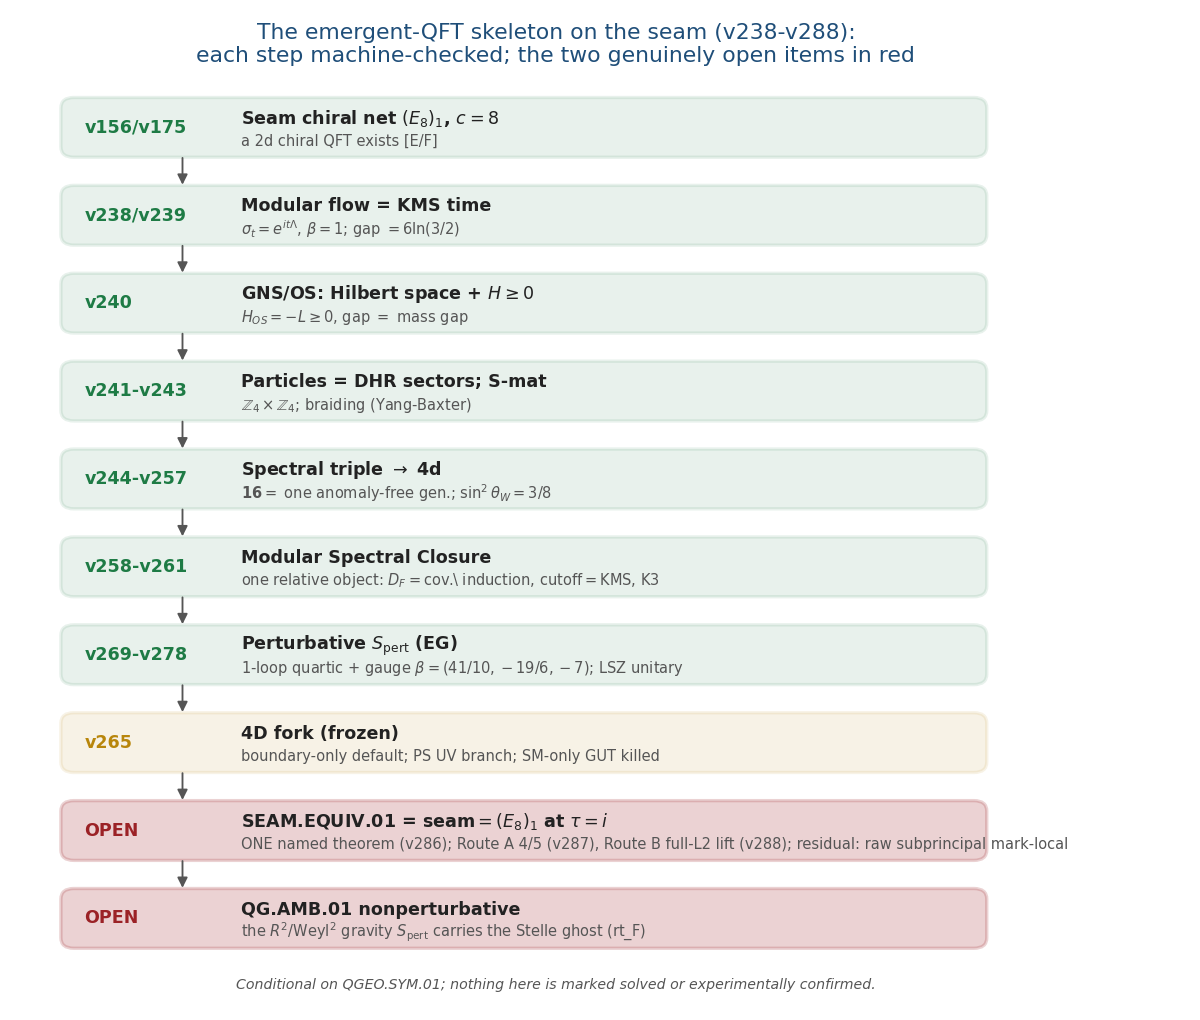
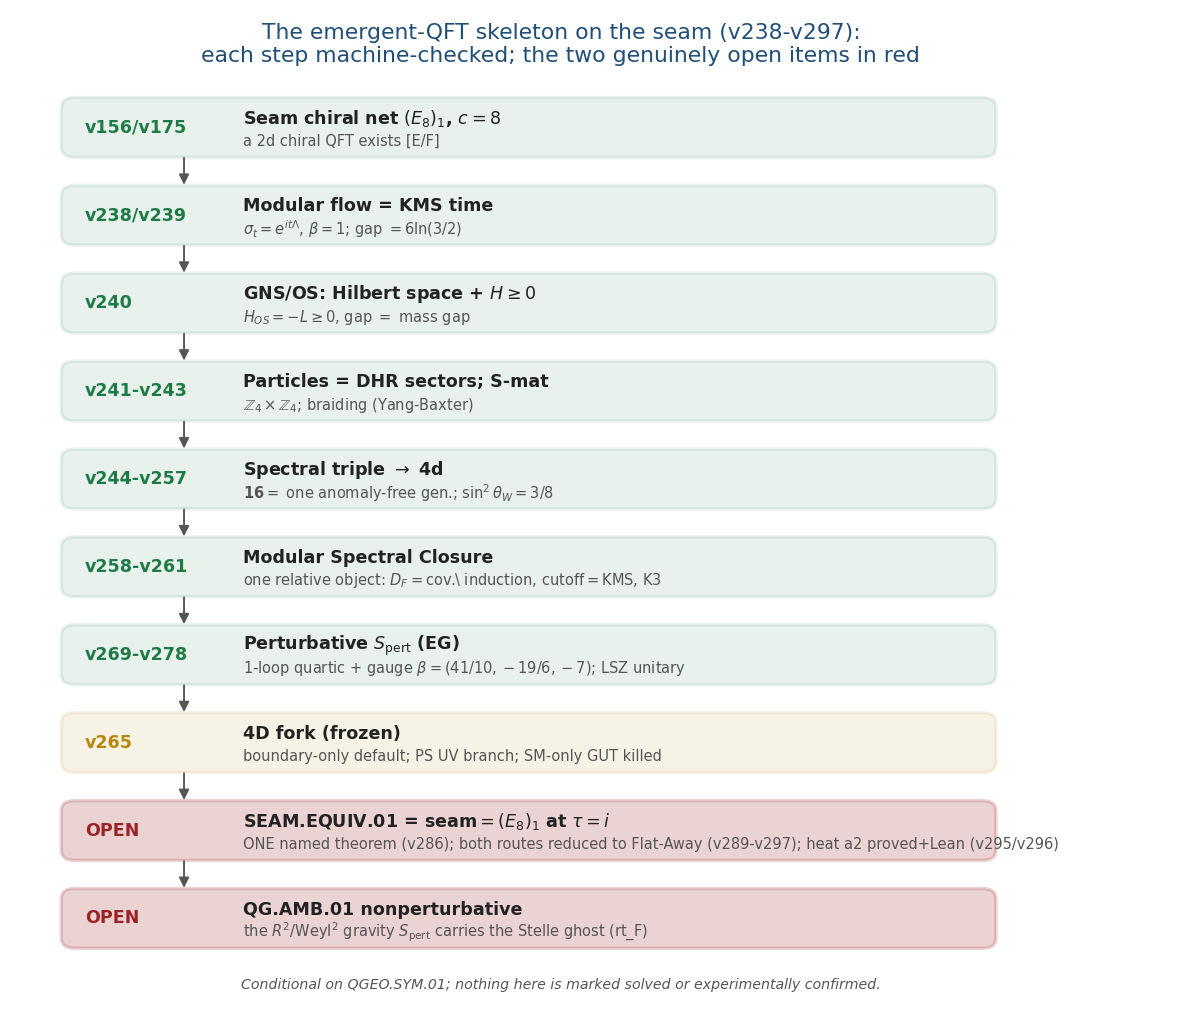
Propagate the Flat-Away round (v289-v297) across all paper + website surfaces
Full consistency sweep so every surface reflects the v289-v297 state (the prior
rounds only updated research_contracts + changelog + a few components):

- papers.ts: research-contracts contribution extended with the Flat-Away round
  (5-lemma decomposition, red-team Z4!=mark-local, three routes, exact a2 +
  closed form + Lean, Route A citable stack) + a new "Flat-Away" highlight.
- introduction.tex: closure-table row 1 + bottom line extended to v289-v297
  (Flat-Away, heat proved+Lean, spectral Hessian, Troyanov, Route A stack).
- README.md: new Flat-Away round paragraph; script count 288 -> 295.
- next.txt: German v289-v297 log entry.
- make_figures.py: residual_chain + script_timeline + qft_skeleton extended to
  v297, counts 288 -> 295 (figures regenerated).
- verification/page.tsx: residual-chain caption v288 -> v297 + Flat-Away note;
  timeline caption ~235 -> ~295.
- OpenGates.tsx + faq.ts: topped up with the a2 closed form (v296) + Route A
  citable stack (v297).

zenodo_description.html deliberately left at the published v5.2/v275 deposit
(updated when the v5.3 deposit is cut, per the deferred-Zenodo decision).

10 docs build, no overfull, AUDIT OK (295 scripts), npm build clean.

diff --git a/website/lib/release.ts b/website/lib/release.ts
@@ -34,81 +34,81 @@ export const RELEASE_ASSETS: Record<string, ReleaseAsset> = {
   "/papers/introduction.pdf": {
     href: "/papers/introduction.pdf",
     ...COMMON,
-    bytes: 1644214,
+    bytes: 1645239,
     sha256:
[2 lines of base64/hex data omitted]
     changelog:
       "Compiler-closure reading guide: two axioms, the dependency DAG, the predictions and the proof ledger.",
   },
   "/papers/tfpt_1_architecture_e8.pdf": {
     href: "/papers/tfpt_1_architecture_e8.pdf",
     ...COMMON,
-    bytes: 1069536,
+    bytes: 1069556,
     sha256:
[2 lines of base64/hex data omitted]
     changelog:
       "Architecture: the two axioms, the D₅ × A₃ → E₈ construction, and the EM fixed point with existence + uniqueness.",
   },
   "/papers/tfpt_2_standard_model.pdf": {
     href: "/papers/tfpt_2_standard_model.pdf",
     ...COMMON,
-    bytes: 1152960,
+    bytes: 1152977,
     sha256:
[2 lines of base64/hex data omitted]
     changelog:
       "The Standard Model in one φ₀-ladder, the flavor residue matrix, and the derived solar angle θ₁₂.",
   },
   "/papers/tfpt_3_e8_audit_bootstrap.pdf": {
     href: "/papers/tfpt_3_e8_audit_bootstrap.pdf",
     ...COMMON,
-    bytes: 898331,
+    bytes: 898340,
     sha256:
[2 lines of base64/hex data omitted]
     changelog:
       "The seven E₈ slices as an audit raster, the cascade bridge, and the Möbius bootstrap.",
   },
   "/papers/tfpt_4_frontier.pdf": {
     href: "/papers/tfpt_4_frontier.pdf",
     ...COMMON,
-    bytes: 763911,
+    bytes: 763908,
     sha256:
[2 lines of base64/hex data omitted]
     changelog:
       "Honest status of η_B, m_p/m_e, Koide, dark matter and full quantum gravity — not forced onto the ladder.",
   },
   "/papers/tfpt_horizon_readouts.pdf": {
     href: "/papers/tfpt_horizon_readouts.pdf",
     ...COMMON,
-    bytes: 877834,
+    bytes: 877848,
     sha256:
[2 lines of base64/hex data omitted]
     changelog:
       "Appendix H — the horizon unit system: c₃ = 1/(8π) as the universal horizon thermal code.",
   },
   "/papers/origin_theory.pdf": {
     href: "/papers/origin_theory.pdf",
     ...COMMON,
-    bytes: 916014,
+    bytes: 916022,
     sha256:
[2 lines of base64/hex data omitted]
     changelog:
       "Origin Theory: the (5,3) skeleton, the triply-forced 8, the order-30 Coxeter cycle, and the gapped unique attractor.",
   },
   "/papers/tfpt_research_contracts.pdf": {
     href: "/papers/tfpt_research_contracts.pdf",
     ...COMMON,
-    bytes: 1246985,
+    bytes: 1247650,
     sha256:
[2 lines of base64/hex data omitted]
     changelog:
       "Research contracts for the remaining interfaces: v_geo (scale anchor), G_net (metric inclusion), F_transfer (downstream transport).",
   },
   "/papers/tfpt_5_redteam.pdf": {
     href: "/papers/tfpt_5_redteam.pdf",
     ...COMMON,
-    bytes: 705263,
+    bytes: 705264,
     sha256:
[2 lines of base64/hex data omitted]
     changelog:
       "The adversarial audit: Targets A–E, what survives, what each target reduces to, and the kill tests.",
   },
@@ -117,7 +117,7 @@ export const RELEASE_ASSETS: Record<string, ReleaseAsset> = {
     ...COMMON,
     bytes: 740527,
     sha256:
[2 lines of base64/hex data omitted]
     changelog:
       "The canonical dated changelog of every change to the theory, the suite, the papers and the website.",
   },

diff --git a/website/app/verification/page.tsx b/website/app/verification/page.tsx
@@ -416,7 +416,7 @@ export default function VerificationPage() {
               className="mx-auto w-full max-w-4xl rounded-lg bg-white"
             />
             <figcaption className="mt-4 text-sm leading-relaxed text-slate-400">
-              The eleven phases of the ~235-script journey — what each did, mathematically and
+              The eleven phases of the ~295-script journey — what each did, mathematically and
               physically. The two axioms <span className="font-mono">c₃ = 1/(8π)</span> and{" "}
               <span className="font-mono">g_car = 5</span> are not free knobs: they reduce to the single
               parabolic anchor <span className="font-mono">a = (1,1,2)</span> plus π, and{" "}
@@ -432,7 +432,7 @@ export default function VerificationPage() {
               className="mx-auto w-full max-w-4xl rounded-lg bg-white"
             />
             <figcaption className="mt-4 text-sm leading-relaxed text-slate-400">
-              The structural-residual reduction chain (v175 → v288). The whole remaining
+              The structural-residual reduction chain (v175 → v297). The whole remaining
               &ldquo;quantum gravity&rdquo; question collapses, one machine-checked step at a time, from a
               vague measure to a single <span className="text-slate-200">falsifiable physical</span>{" "}
               condition: is the seam short-range-entangled (<span className="font-mono">det K = 1</span>,
@@ -446,7 +446,10 @@ export default function VerificationPage() {
               single <em>named</em> theorem, the Seam Equivalence Theorem (<span className="font-mono">SEAM.EQUIV.01</span>) —
               the raw RP seam IS the holomorphic (E₈)₁ net at τ=i — with an import firewall keeping its two
               routes non-circular; Route A reduces it to one standard import, Route B proves the full-L² ℤ₄
-              lift, leaving only &ldquo;why is the raw subprincipal term mark-local?&rdquo;.
+              lift, leaving only &ldquo;why is the raw subprincipal term mark-local?&rdquo;. Flat-Away round
+              (<span className="font-mono">v289–v297</span>): both routes are reduced to one shared geometric
+              input (Flat-Away), with the heat route&rsquo;s positive-definiteness <em>proved</em> (convexity),
+              its a₂ kernel in closed form, and the Δ = 0 ⟺ flat step Lean-formalised.
             </figcaption>
           </figure>
         </div>

diff --git a/website/components/OpenGates.tsx b/website/components/OpenGates.tsx
@@ -209,8 +209,10 @@ function ClosingCondition() {
         now <em>exact</em>, not numerical (v295): convexity of the heat trace Λ↦Tr exp(−tΛ) plus the
         Gauss-Bonnet zero-mean condition makes the flat seam the global minimum (ΔTr ≥ 0, = 0 iff f = 0), and
         the Δ = 0 ⟺ flat step is
-        machine-formalised in Lean (FORM.FLATAWAY.01, axiom-clean). The three converge on one external
-        selection principle for the flat metric.
+        machine-formalised in Lean (FORM.FLATAWAY.01, axiom-clean); the a₂ coefficient is now in closed form
+        (v296). Route A&rsquo;s import is likewise a citable theorem stack (Kitaev/Freed–Hopkins → Müger/KLM →
+        Conway–Sloane, v297) modulo the same input. The three converge on one external selection principle for
+        the flat metric.
       </p>
       <p className="mt-3 rounded-lg border border-slate-700/40 bg-slate-950/40 p-3 text-xs leading-relaxed text-slate-300">
         <span className="font-semibold text-slate-100">4D-QFT fork policy</span> (frozen decision tree, v265):

diff --git a/website/lib/papers.ts b/website/lib/papers.ts
@@ -1014,7 +1014,7 @@ export const papers: Paper[] = [
       "Flavor interface (historically U_wall) — reduced to the selector triangle: the dual normal pair (d,n) forces R columnwise (v136/v139), the quark ratios are closed (Readout Rigidity), and the only remainder is the absolute amplitude U_point = the one overall scale v_geo (the same dimensionful anchor as gravity's 1/G).",
       "G_net: IR tier closed under RP + gap (Decoupling Theorem, Δ_eff = 1.648 > 0); the ambient measure is holographically reduced to a finite seam-boundary measure that is the rigorously-constructed (E₈)₁ lattice net (c = 8 = 5 + 3, conformal embedding (D₅)₁×(A₃)₁, coset c = 0). The closing statement is the index-4 seam-net inclusion — and the free-bulk premise (A) behind it is now a fixed-point theorem with the cone eliminated (cone gap = one-particle gap (2/3)⁶), factoring into the already-open A2 net-existence + GATE.QGEO with zero new open content (v160–v165).",
       "The quark ratio c_u/c_d = 55/117 is closed (Readout Rigidity); the '11' is the Pascal sum 16 − g_car.",
-      "Modular Spectral Closure (v258–v261): the boundary QFT is one relative object reduced to one premise. The finite Dirac is the modular/covariance induction of the seam KMS state ([D_F] = [D_Σ]⊗[K_car], v258); the spectral-action cutoff is that same KMS weight, fixing f₂/f₀ = 1 and turning κ into a finite-triple trace ratio (v259); the seam (pillowcase), carrier-16 (Kummer nodes) and E₈ (H²(K3) = U³⊕E₈(−1)²) are facets of one Kummer/K3 surface (v260). The assembly certificate (v261) pins the cross-consistency (4 = index = marks = fixed points = glue order; one carrier-16; one gap 6log(3/2)) — so the whole layer is QFT-complete modulo QGEO.SYM.01, ambient QG separate. Latest round (v269–v278): the perturbative 4D layer is now built — the spectral-action S-matrix S_pert is Epstein–Glaser-constructible (v269) with a one-loop quartic (v271) and the gauge β-coefficients (41/10, −19/6, −7) from the carrier content (v273), LSZ-bridged to the physical S_phys with one-loop unitarity (the optical theorem: bubble cut = two-body phase space, v278) for matter+gauge; the R²/Weyl² gravity sector is renormalizable but non-unitary (the Stelle ghost, rt_F), which IS the nonperturbative frontier. The two remaining obligations are sharply located: (1) QGEO.SYM.01 collapses to one geometric postulate — the raw seam is the flat τ=i pillowcase (v276: granting it, the modular commutator [ρ,H]=0 closes to all orders); (2) QG.AMB.01 Tier-B reduces to one holomorphy bit — is the seam-Calderón boundary net holomorphic, det K=1? (v277: every other (E8)₁ invariant matches; SO(16) has det Cartan 4). The single mass anchor is over-determined (v274: gravity = dark energy to 0.11%) and the absolute neutrino scale is one seesaw ratio (v272). Self-investigation round (v280–v283): a numerical experiment on the actual flat τ=i pillowcase realises the chain ω∘ρ=ω (route-(i) evidence, v280); the Tier-B bit is the anyon count (#anyons=|det K|, tower 16→4→1, Gauss–Milgram c=8, v281); and — the candidate simplification — χ_E8=j^{1/3} gives χ_E8(i)=1728^{1/3}=12, so τ=i is BOTH the order-4 CM point AND the (E8)₁ modulus: the two obligations are two faces of ONE object, 'the raw seam is (E8)₁ at τ=i', dropping the open count from two to one (v282). That single open lemma is attacked from two decomposed routes — RP-state uniqueness (6-lemma chain, 5/6 discharged, v284) and seam-net condensation (4-lemma chain, 3/4 discharged, v285) — whose open lemmas coincide, so the one closing statement is a canonical equivalence between the raw seam KMS/DtN state and the holomorphic (E8)₁ net at τ=i. Closing sprint (v286–v288): that statement is now the single named theorem SEAM.EQUIV.01 — the contract types four objects and six arrows and enforces an import firewall so the two routes never feed each other (no 'E8 smuggled into the geometry and pulled back out'); Route A (AQFT, v287) reduces the theorem to ONE standard import 'invertible Gaussian bulk ⇒ single-sector boundary' (4/5 lemmas discharged); and Route B (DtN, v288) PROVES the full-L² lift of the subprincipal ℤ₄ block-diagonality, shrinking the residual to the single sharper question 'why is the raw seam subprincipal term mark-local?'. The recent predictions are all consistent < 2σ with two sharp near-term kill tests (v283).",
+      "Modular Spectral Closure (v258–v261): the boundary QFT is one relative object reduced to one premise. The finite Dirac is the modular/covariance induction of the seam KMS state ([D_F] = [D_Σ]⊗[K_car], v258); the spectral-action cutoff is that same KMS weight, fixing f₂/f₀ = 1 and turning κ into a finite-triple trace ratio (v259); the seam (pillowcase), carrier-16 (Kummer nodes) and E₈ (H²(K3) = U³⊕E₈(−1)²) are facets of one Kummer/K3 surface (v260). The assembly certificate (v261) pins the cross-consistency (4 = index = marks = fixed points = glue order; one carrier-16; one gap 6log(3/2)) — so the whole layer is QFT-complete modulo QGEO.SYM.01, ambient QG separate. Latest round (v269–v278): the perturbative 4D layer is now built — the spectral-action S-matrix S_pert is Epstein–Glaser-constructible (v269) with a one-loop quartic (v271) and the gauge β-coefficients (41/10, −19/6, −7) from the carrier content (v273), LSZ-bridged to the physical S_phys with one-loop unitarity (the optical theorem: bubble cut = two-body phase space, v278) for matter+gauge; the R²/Weyl² gravity sector is renormalizable but non-unitary (the Stelle ghost, rt_F), which IS the nonperturbative frontier. The two remaining obligations are sharply located: (1) QGEO.SYM.01 collapses to one geometric postulate — the raw seam is the flat τ=i pillowcase (v276: granting it, the modular commutator [ρ,H]=0 closes to all orders); (2) QG.AMB.01 Tier-B reduces to one holomorphy bit — is the seam-Calderón boundary net holomorphic, det K=1? (v277: every other (E8)₁ invariant matches; SO(16) has det Cartan 4). The single mass anchor is over-determined (v274: gravity = dark energy to 0.11%) and the absolute neutrino scale is one seesaw ratio (v272). Self-investigation round (v280–v283): a numerical experiment on the actual flat τ=i pillowcase realises the chain ω∘ρ=ω (route-(i) evidence, v280); the Tier-B bit is the anyon count (#anyons=|det K|, tower 16→4→1, Gauss–Milgram c=8, v281); and — the candidate simplification — χ_E8=j^{1/3} gives χ_E8(i)=1728^{1/3}=12, so τ=i is BOTH the order-4 CM point AND the (E8)₁ modulus: the two obligations are two faces of ONE object, 'the raw seam is (E8)₁ at τ=i', dropping the open count from two to one (v282). That single open lemma is attacked from two decomposed routes — RP-state uniqueness (6-lemma chain, 5/6 discharged, v284) and seam-net condensation (4-lemma chain, 3/4 discharged, v285) — whose open lemmas coincide, so the one closing statement is a canonical equivalence between the raw seam KMS/DtN state and the holomorphic (E8)₁ net at τ=i. Closing sprint (v286–v288): that statement is now the single named theorem SEAM.EQUIV.01 — the contract types four objects and six arrows and enforces an import firewall so the two routes never feed each other (no 'E8 smuggled into the geometry and pulled back out'); Route A (AQFT, v287) reduces the theorem to ONE standard import 'invertible Gaussian bulk ⇒ single-sector boundary' (4/5 lemmas discharged); and Route B (DtN, v288) PROVES the full-L² lift of the subprincipal ℤ₄ block-diagonality, shrinking the residual to the single sharper question 'why is the raw seam subprincipal term mark-local?'. Flat-Away round (v289–v297): that residual is decomposed into a 5-lemma chain whose only open link is Flat-Away — RP+gap+4 marks ⇒ the curvature vanishes away from the marks (v289); an honest red-team shows ℤ₄-invariance is NOT mark-locality (a smooth ε·cos(4θ) passes the commutator but shifts the spectrum, v290), so Flat-Away is named as its own mini-theorem (v291) with three independent routes — heat-kernel, spectral-rigidity and RP-energy/Troyanov — all carried to a precise reduction: the heat-trace deviation is a positive-definite quadratic form (v292), proven analytically via convexity with the exact a₂ divided-difference kernel (v295) now in closed form W_k(t)=t(1−e^{−4kt})/(8k(1−e^{−t}))+finite middle (v296) and Lean-formalised (FORM.FLATAWAY.01); the spectral-mismatch Hessian over the full smooth-ℤ₄ space is positive-definite (v293); Troyanov gives the unique flat cone metric (v294); and Route A's import is a citable theorem stack (Kitaev/Freed–Hopkins → Müger/Kawahigashi–Longo–Müger → Conway–Sloane/Dong–Xu, v297) modulo the SAME one geometric input as Route B. So both routes reduce SEAM.EQUIV.01 to one shared external fact. The recent predictions are all consistent < 2σ with two sharp near-term kill tests (v283).",
     ],
     notClaimed: [
       "U_point is not a free transcendental input but the single overall scale v_geo (shared with 1/G); the strict claim is only that one dimensionful anchor remains.",
@@ -1101,6 +1101,7 @@ export const papers: Paper[] = [
       { label: "CS realisation", value: "holomorphic ⇔ det K=1", description: "The closing step in abelian Chern-Simons: #anyons=|det K|; the v92 tower D5⊕A3(16)→D8(4)→E8(1) is anyon condensation = the Kitaev E8 state. Residual: condense the |μ₄| Lagrangian glue (v235)" },
       { label: "Closing as physics", value: "seam is SRE?", description: "Sharper still: det K=1 ⟺ no topological ground-state degeneracy ⟺ the seam bulk is short-range-entangled (the Kitaev E8 phase). The one open step is now a physical yes/no (v237)" },
       { label: "Seam Equivalence Theorem", value: "SEAM.EQUIV.01", description: "The one open core is now a single named theorem: the raw RP seam IS the holomorphic (E8)₁ net at τ=i. An import firewall keeps its two routes non-circular (v286); Route A reduces it to one standard import (v287); Route B proves the full-L² ℤ₄ lift, leaving 'why is the raw subprincipal mark-local?' (v288)" },
+      { label: "Flat-Away", value: "one geometric input", description: "Both routes reduce to one shared fact — the raw seam is flat away from the four marks. Heat route: positive-definite a₂ proved (convexity) + closed form + Lean (v292/v295/v296); spectral Hessian PD (v293); Troyanov minimiser (v294); red-team Z₄≠mark-local (v290); Route A = citable stack Kitaev/Freed-Hopkins→Müger/KLM→Conway-Sloane (v297)" },
     ],
   },
 ];

diff --git a/website/lib/faq.ts b/website/lib/faq.ts
@@ -32,7 +32,7 @@ export const FAQ_ITEMS: FaqItem[] = [
   },
   {
     q: "What is still open?",
-    a: "The live residual is three named interfaces: v_geo — the single dimensionful scale anchor (the same nature as 1/G; the quark ratios are already closed, only the absolute amplitude remains); G_net — the index-4 seam-net inclusion that certifies the metric sector (net existence and full-cone reflection positivity are now discharged to [E], and the residual is reduced to a single definitional premise — the carrier μ₄ clock is the conformal deck of the seam, QGEO.SYM.01 — whose geometric normal form (z↦iz, σρσ=ρ⁻¹, orbit→μ₄; FORM.QGEO.02) and conditional implication mark-local ⇒ ω∘ρ=ω (FORM.QGEO.01) are now Lean-formalised (AUDIT: PASS), leaving QGEO.SYM.01 itself as the one [O] postulate, so a strict physical TOE is a certification layer, not yet certified); and F_transfer — the source→pole/relic/cosmology transport (Koide, η_B, the axion relic scale, m_p/m_e are four instances of this one missing functor, explicitly not claimed as compiler powers). Sharper still (v234/v235): the structural part — G_net, the carrier P2 and red-team Target A — is one condition, 'the seam carries no nontrivial abelian sector', with three provably-equivalent faces (holomorphy, a homology-sphere seam link ⟺ 2I, one 1-dim irrep) that all force E₈; in Chern–Simons language it is the single integer step holomorphic ⟺ det K = 1 (the extension tower D₅⊕A₃→D₈→E₈ is anyon condensation, the Kitaev E₈ state). And the entire emergent-QFT layer collapses onto that same premise (the Modular Spectral Closure, v258–v261): the finite Dirac is a covariance induction of the seam KMS state ([D_F] = [D_Σ]⊗[K_car], v258), the spectral-action cutoff is that KMS weight (f₂/f₀ = 1, v259), and the seam, carrier-16 and E₈ live on one Kummer/K3 surface (v260), so Dirac, cutoff, gauging, glue and orientability are readouts of the one seam state — the boundary QFT is one relative object closed modulo QGEO.SYM.01, adding no new open item, with the ambient QG measure kept separate. Latest round (v269–v278): the open core is now two sharply-located math obligations. The perturbative 4D QFT is built — the spectral-action S-matrix S_pert is Epstein–Glaser-constructible (v269) with a one-loop quartic (v271) and the gauge β-coefficients (41/10, −19/6, −7) from the carrier content (v273), LSZ-bridged to the physical S_phys with one-loop unitarity verified (the optical theorem: bubble cut = two-body phase space, v278) — for matter+gauge; the R²/Weyl² gravity sector is renormalizable but non-unitary (the Stelle ghost, red-team rt_F), which IS the nonperturbative frontier. So the two obligations are: (1) QGEO.SYM.01 collapses to one geometric postulate — the raw seam is the flat τ=i pillowcase (v276: granting it, [ρ,H]=0 closes to all orders); (2) QG.AMB.01 Tier-B reduces to one holomorphy bit — is the seam-Calderón boundary net holomorphic, det K = 1? (v277: every other (E8)₁ invariant already matches; the c=8 counterexample SO(16) has det Cartan = 4). The single mass anchor is over-determined (v274: gravity and dark energy give the same Planck mass to 0.11%), and the absolute neutrino scale is one seesaw ratio (v272). Self-investigation round (v280–v283): a direct numerical experiment on the actual flat τ=i pillowcase orbifold realises the chain [ρ,Δ]=0 ⇒ [ρ,H]=0 ⇒ [ρ,C]=0 ⇒ ω∘ρ=ω (route-(i) evidence, v280), the Tier-B bit is the anyon count (#anyons = |det K|, condensation tower 16→4→1, Gauss–Milgram c=8, v281), and — the candidate simplification — χ_E8 = j^{1/3} gives χ_E8(i) = 1728^{1/3} = 12, so τ=i is BOTH the order-4 CM point (the flat geometry) AND the (E8)₁ modulus (the holomorphy): the two obligations are two faces of ONE object, 'the raw seam is (E8)₁ at τ=i', dropping the open count from two to one (v282). That single open lemma is now attacked from two decomposed routes — RP-state uniqueness (a 6-lemma chain, 5/6 discharged; Troyanov reduces the rest to 'the raw seam is the constant-curvature state', v284) and seam-net condensation (a 4-lemma chain, 3/4 discharged; the open bit is det K=1 = QGEO.SYM.01, v285) — whose open lemmas coincide, so the one statement that closes both is a canonical equivalence between the raw seam KMS/DtN state and the holomorphic (E8)₁ net at τ=i. Closing sprint (v286–v288): that statement is now a single named theorem, the Seam Equivalence Theorem (SEAM.EQUIV.01) — 'the raw RP seam IS the holomorphic (E8)₁ net at τ=i' — with an import firewall proving its two routes are non-circular (v286); Route A (AQFT, v287) reduces it to one standard import ('invertible Gaussian bulk ⇒ single-sector boundary', 4/5 discharged), and Route B (DtN, v288) proves the full-L² ℤ₄ block-diagonality of the subprincipal term, so the residual is now the single sharper question 'why is the raw seam subprincipal term mark-local?' — decomposed (v289) into a 5-lemma chain whose only open link is Flat-Away (RP + gap + 4 marks ⇒ the curvature vanishes away from the marks); 4/5 lemmas discharged, so Route B closes the moment Flat-Away does. Both routes are precisely scoped (v288 does not claim 'full-L² QGEO'; Route A's one import is citable — Kitaev/Freed–Hopkins, Müger/Kawahigashi–Longo–Müger — modulo the same seam-bulk invertibility). An honest red-team (v290) shows ℤ₄-invariance is not mark-locality — a smooth ε·cos(4θ) off-mark curvature passes the commutator yet shifts the DtN spectrum and heat trace — so Flat-Away is named as its own mini-theorem (v291, FLATAWAY.RP.01) with three independent attack routes (spectral-rigidity, heat-kernel, RP-energy/Troyanov), the flat seam being the unique spectral match of the smooth ℤ₄ family. All three are now carried to a precise reduction — the heat-trace deviation is a positive-definite quadratic form (v292, fix one coefficient a₂), the spectral-mismatch Hessian over the full smooth-ℤ₄ space is positive-definite (v293, flat = strict isolated minimum), and Troyanov uniqueness gives the flat cone metric as the unique curvature-energy minimiser (v294) — converging on one external selection principle for the flat metric; closing any one closes Route B. The heat route is now exact, not numerical (v295): convexity of Λ↦Tr e^{−tΛ} plus the Gauss-Bonnet zero-mean condition makes the flat seam the global minimum (ΔTr ≥ 0, = 0 iff f = 0), with the exact a₂ kernel, and the Δ = 0 ⟺ flat step is Lean-formalised (FORM.FLATAWAY.01, axiom-clean). The recent predictions are all consistent < 2σ, with two sharp near-term kill tests (Σm_ν floor, proton decay; v283). The historical labels U_wall / G_metric / F_frontier are kept only for ledger continuity.",
+    a: "The live residual is three named interfaces: v_geo — the single dimensionful scale anchor (the same nature as 1/G; the quark ratios are already closed, only the absolute amplitude remains); G_net — the index-4 seam-net inclusion that certifies the metric sector (net existence and full-cone reflection positivity are now discharged to [E], and the residual is reduced to a single definitional premise — the carrier μ₄ clock is the conformal deck of the seam, QGEO.SYM.01 — whose geometric normal form (z↦iz, σρσ=ρ⁻¹, orbit→μ₄; FORM.QGEO.02) and conditional implication mark-local ⇒ ω∘ρ=ω (FORM.QGEO.01) are now Lean-formalised (AUDIT: PASS), leaving QGEO.SYM.01 itself as the one [O] postulate, so a strict physical TOE is a certification layer, not yet certified); and F_transfer — the source→pole/relic/cosmology transport (Koide, η_B, the axion relic scale, m_p/m_e are four instances of this one missing functor, explicitly not claimed as compiler powers). Sharper still (v234/v235): the structural part — G_net, the carrier P2 and red-team Target A — is one condition, 'the seam carries no nontrivial abelian sector', with three provably-equivalent faces (holomorphy, a homology-sphere seam link ⟺ 2I, one 1-dim irrep) that all force E₈; in Chern–Simons language it is the single integer step holomorphic ⟺ det K = 1 (the extension tower D₅⊕A₃→D₈→E₈ is anyon condensation, the Kitaev E₈ state). And the entire emergent-QFT layer collapses onto that same premise (the Modular Spectral Closure, v258–v261): the finite Dirac is a covariance induction of the seam KMS state ([D_F] = [D_Σ]⊗[K_car], v258), the spectral-action cutoff is that KMS weight (f₂/f₀ = 1, v259), and the seam, carrier-16 and E₈ live on one Kummer/K3 surface (v260), so Dirac, cutoff, gauging, glue and orientability are readouts of the one seam state — the boundary QFT is one relative object closed modulo QGEO.SYM.01, adding no new open item, with the ambient QG measure kept separate. Latest round (v269–v278): the open core is now two sharply-located math obligations. The perturbative 4D QFT is built — the spectral-action S-matrix S_pert is Epstein–Glaser-constructible (v269) with a one-loop quartic (v271) and the gauge β-coefficients (41/10, −19/6, −7) from the carrier content (v273), LSZ-bridged to the physical S_phys with one-loop unitarity verified (the optical theorem: bubble cut = two-body phase space, v278) — for matter+gauge; the R²/Weyl² gravity sector is renormalizable but non-unitary (the Stelle ghost, red-team rt_F), which IS the nonperturbative frontier. So the two obligations are: (1) QGEO.SYM.01 collapses to one geometric postulate — the raw seam is the flat τ=i pillowcase (v276: granting it, [ρ,H]=0 closes to all orders); (2) QG.AMB.01 Tier-B reduces to one holomorphy bit — is the seam-Calderón boundary net holomorphic, det K = 1? (v277: every other (E8)₁ invariant already matches; the c=8 counterexample SO(16) has det Cartan = 4). The single mass anchor is over-determined (v274: gravity and dark energy give the same Planck mass to 0.11%), and the absolute neutrino scale is one seesaw ratio (v272). Self-investigation round (v280–v283): a direct numerical experiment on the actual flat τ=i pillowcase orbifold realises the chain [ρ,Δ]=0 ⇒ [ρ,H]=0 ⇒ [ρ,C]=0 ⇒ ω∘ρ=ω (route-(i) evidence, v280), the Tier-B bit is the anyon count (#anyons = |det K|, condensation tower 16→4→1, Gauss–Milgram c=8, v281), and — the candidate simplification — χ_E8 = j^{1/3} gives χ_E8(i) = 1728^{1/3} = 12, so τ=i is BOTH the order-4 CM point (the flat geometry) AND the (E8)₁ modulus (the holomorphy): the two obligations are two faces of ONE object, 'the raw seam is (E8)₁ at τ=i', dropping the open count from two to one (v282). That single open lemma is now attacked from two decomposed routes — RP-state uniqueness (a 6-lemma chain, 5/6 discharged; Troyanov reduces the rest to 'the raw seam is the constant-curvature state', v284) and seam-net condensation (a 4-lemma chain, 3/4 discharged; the open bit is det K=1 = QGEO.SYM.01, v285) — whose open lemmas coincide, so the one statement that closes both is a canonical equivalence between the raw seam KMS/DtN state and the holomorphic (E8)₁ net at τ=i. Closing sprint (v286–v288): that statement is now a single named theorem, the Seam Equivalence Theorem (SEAM.EQUIV.01) — 'the raw RP seam IS the holomorphic (E8)₁ net at τ=i' — with an import firewall proving its two routes are non-circular (v286); Route A (AQFT, v287) reduces it to one standard import ('invertible Gaussian bulk ⇒ single-sector boundary', 4/5 discharged), and Route B (DtN, v288) proves the full-L² ℤ₄ block-diagonality of the subprincipal term, so the residual is now the single sharper question 'why is the raw seam subprincipal term mark-local?' — decomposed (v289) into a 5-lemma chain whose only open link is Flat-Away (RP + gap + 4 marks ⇒ the curvature vanishes away from the marks); 4/5 lemmas discharged, so Route B closes the moment Flat-Away does. Both routes are precisely scoped (v288 does not claim 'full-L² QGEO'; Route A's one import is citable — Kitaev/Freed–Hopkins, Müger/Kawahigashi–Longo–Müger — modulo the same seam-bulk invertibility). An honest red-team (v290) shows ℤ₄-invariance is not mark-locality — a smooth ε·cos(4θ) off-mark curvature passes the commutator yet shifts the DtN spectrum and heat trace — so Flat-Away is named as its own mini-theorem (v291, FLATAWAY.RP.01) with three independent attack routes (spectral-rigidity, heat-kernel, RP-energy/Troyanov), the flat seam being the unique spectral match of the smooth ℤ₄ family. All three are now carried to a precise reduction — the heat-trace deviation is a positive-definite quadratic form (v292, fix one coefficient a₂), the spectral-mismatch Hessian over the full smooth-ℤ₄ space is positive-definite (v293, flat = strict isolated minimum), and Troyanov uniqueness gives the flat cone metric as the unique curvature-energy minimiser (v294) — converging on one external selection principle for the flat metric; closing any one closes Route B. The heat route is now exact, not numerical (v295): convexity of Λ↦Tr e^{−tΛ} plus the Gauss-Bonnet zero-mean condition makes the flat seam the global minimum (ΔTr ≥ 0, = 0 iff f = 0), with the exact a₂ kernel (now in closed form, v296), and the Δ = 0 ⟺ flat step is Lean-formalised (FORM.FLATAWAY.01, axiom-clean); Route A's import is likewise a citable theorem stack (Kitaev/Freed–Hopkins → Müger/Kawahigashi–Longo–Müger → Conway–Sloane, v297) modulo the same one input. The recent predictions are all consistent < 2σ, with two sharp near-term kill tests (Σm_ν floor, proton decay; v283). The historical labels U_wall / G_metric / F_frontier are kept only for ledger continuity.",
   },
   {
     q: "Why call α⁻¹ a prediction at 1.9σ from CODATA?",

diff --git a/website/lib/version.ts b/website/lib/version.ts
@@ -1,5 +1,5 @@
 // GENERATED by `bash build.sh website` -- do not edit by hand.
 // Single source: tex-artefacts/version.tex (\TFPTversion) + git commit count.
 export const SITE_VERSION = "5.2";
-export const SITE_REV = "215";
+export const SITE_REV = "216";
 export const SITE_DATE = "2026-06-18";

diff --git a/verification/make_figures.py b/verification/make_figures.py
@@ -744,7 +744,8 @@ def fig_residual_chain():
         ("v282", "Two faces, ONE object", "chi_E8(i)=12: flat tau=i geometry = (E8)_1 holomorphy", C["green"]),
         ("v284-v285", "Two routes, one open lemma", "RP-uniqueness 5/6 + condensation 3/4; open lemmas coincide", C["green"]),
         ("v286-v288", "SEAM.EQUIV.01 named + attacked", "import firewall (v286); Route A 4/5 (v287); Route B proves full-L2 Z4 lift (v288)", C["green"]),
-        ("BEDROCK", "ONE mark-locality bit", "residual: why is the raw seam subprincipal term mark-local? (= raw seam IS (E8)_1 at tau=i)", C["gold"]),
+        ("v289-v297", "Flat-Away: 3 routes reduced", "heat a2 closed+Lean (v292/v295/v296), spectral Hessian PD (v293), Troyanov (v294); Route A citable stack (v297)", C["green"]),
+        ("BEDROCK", "ONE shared input: Flat-Away", "residual: RP+gap+4 marks => curvature flat away from the marks (both routes meet here)", C["gold"]),
     ]
     n = len(steps)
     fig, ax = plt.subplots(figsize=(8.2, 6.6))
@@ -813,12 +814,12 @@ def fig_script_timeline():
          "cutoff = KMS weight, seam/carrier/E8 on one K3: one relative object", C["blue"]),
         ("v262-v275", "Frontier closure + QFT4D fork", "F_QCD m_p/m_e, M_nu seesaw, S_pert (EG, 1-loop + gauge\n"
          "betas), scale over-determination, the QG.AMB roadmap", C["red"]),
-        ("v276-v288", "The Gral: SEAM.EQUIV.01", "seam = (E8)_1 at tau=i named as ONE theorem; import\n"
-         "firewall (v286), Route A 4/5 (v287), Route B proves full-L2 Z4 lift (v288)", C["gold"]),
+        ("v276-v297", "The Gral: SEAM.EQUIV.01 + Flat-Away", "seam = (E8)_1 at tau=i named as ONE theorem;\n"
+         "both routes reduced to one shared input (Flat-Away), heat a2 proved+Lean (v295/v296)", C["gold"]),
     ]
     fig, ax = plt.subplots(figsize=(7.8, 10.2))
     ax.set_xlim(0, 10); ax.set_ylim(0, len(phases) + 0.4); ax.axis("off")
-    ax.set_title("TFPT verification suite: the journey of ~288 machine-checked scripts",
+    ax.set_title("TFPT verification suite: the journey of ~295 machine-checked scripts",
                  fontsize=10.5, color=C["blue"])
     ax.plot([0.7, 0.7], [0.3, len(phases) + 0.1], color=C["gray"], lw=1.4, zorder=0)
     for i, (rng, head, sub, col) in enumerate(phases):
@@ -852,13 +853,13 @@ def fig_qft_skeleton():
         ("v258-v261", "Modular Spectral Closure", "one relative object: $D_F=$cov.\\ induction, cutoff$=$KMS, K3", C["green"]),
         ("v269-v278", "Perturbative $S_{\\mathrm{pert}}$ (EG)", "1-loop quartic + gauge $\\beta=(41/10,-19/6,-7)$; LSZ unitary", C["green"]),
         ("v265", "4D fork (frozen)", "boundary-only default; PS UV branch; SM-only GUT killed", C["gold"]),
-        ("OPEN", "SEAM.EQUIV.01 = seam$=(E_8)_1$ at $\\tau{=}i$", "ONE named theorem (v286); Route A 4/5 (v287), Route B full-L2 lift (v288); residual: raw subprincipal mark-local", C["red"]),
+        ("OPEN", "SEAM.EQUIV.01 = seam$=(E_8)_1$ at $\\tau{=}i$", "ONE named theorem (v286); both routes reduced to Flat-Away (v289-v297); heat a2 proved+Lean (v295/v296)", C["red"]),
         ("OPEN", "QG.AMB.01 nonperturbative", "the $R^2/$Weyl$^2$ gravity $S_{\\mathrm{pert}}$ carries the Stelle ghost (rt_F)", C["red"]),
     ]
     n = len(steps)
     fig, ax = plt.subplots(figsize=(8.0, 6.8))
     ax.set_xlim(0, 10); ax.set_ylim(0, n + 0.5); ax.axis("off")
-    ax.set_title("The emergent-QFT skeleton on the seam (v238-v288):\n"
+    ax.set_title("The emergent-QFT skeleton on the seam (v238-v297):\n"
                  "each step machine-checked; the two genuinely open items in red",
                  fontsize=10.5, color=C["blue"])
     bw, bh = 8.6, 0.60

diff --git a/introduction.tex b/introduction.tex
@@ -835,7 +835,7 @@ QFT measure (admissible sector) & \mE & \textbf{closed: RP from cusp spectrum, O
 full measured pole masses & \mC & ladder $\times\,v_{\mathrm{geo}}$, dressed by standard RG (no new physics); $v_{\mathrm{geo}}$ over-determined (\vref{v274}) \\
 absolute QCD scales ($m_p/m_e$, $\Lambda_{\mathrm{QCD}}$) & \mO & QCD matching contract (\texttt{FR.MPME.01}); not a compiler number \\
 full PMNS dynamics (mass scale, CP) & \mC/\mO & angles typed; CP strength $J_{\mathrm{PMNS}}{=}{-}0.0297$ derived (\vref{v270}); absolute $\nu$-scale $=$ one seesaw ratio (\vref{v272}) \\
-\textbf{(1)} \texttt{SEAM.EQUIV.01} --- one named theorem (\emph{raw seam $=(E_8)_1$ at $\tau{=}i$}) & \mO & the single arrow unifying the flat-$\tau{=}i$ geometry and the $\det K{=}1$ holomorphy (\vref{v282}/\vref{v286}, import firewall); Route~A reduces it to one standard import (\vref{v287}), Route~B \emph{proves} the full-$L^2$ $\Z_4$ lift (\vref{v288}); residual $=$ raw subprincipal mark-locality \\
+\textbf{(1)} \texttt{SEAM.EQUIV.01} --- one named theorem (\emph{raw seam $=(E_8)_1$ at $\tau{=}i$}) & \mO & the single arrow unifying the flat-$\tau{=}i$ geometry and the $\det K{=}1$ holomorphy (\vref{v282}/\vref{v286}, import firewall); Route~A is a citable theorem stack (\vref{v297}), Route~B \emph{proves} the full-$L^2$ $\Z_4$ lift (\vref{v288}); residual $=$ \emph{Flat-Away} (\vref{v289}), its heat positive-definiteness proved+Lean (\vref{v295}) \\
 \textbf{(2)} \texttt{QG.AMB.01} --- nonperturbative ambient measure & \mO & the genuinely separate strict-TOE summit: the perturbative $R^2/$Weyl$^2$ gravity ghost (Stelle) is the frontier; Tier-B's holomorphy bit ($\det K{=}1$, \vref{v277}) is absorbed into \texttt{SEAM.EQUIV.01} \\
 analytic boundary origin of $\pi$ ($c_3{=}\tfrac1{8\pi}$) & \mC & \textbf{hardened: $c_3{=}1/(|\Z_2|\oint_{S^2}K)=1/(8\pi)$ (Gauss--Bonnet)}; ``$8$''${=}\operatorname{rank}E_8$; $\pi$ stays the one primitive \\
 $\eta_B$, $m_p/m_e$, Koide, dark matter & \mO & frontier handles only (see document~4) \\
@@ -876,7 +876,15 @@ so the two routes never feed each other (no ``$E_8$ smuggled into the geometry a
 (AQFT) reduces it to \emph{one} standard import, ``invertible Gaussian bulk $\Rightarrow$ single-sector boundary''
 ($4/5$ lemmas discharged, \vref{v287}); and Route~B (DtN) \emph{proves} the full-$L^2$ lift of the subprincipal
 $\Z_4$ block-diagonality (\vref{v288}), shrinking the residual to the single sharper question \emph{why is the raw
-seam subprincipal term mark-local?}. The seam seed is \emph{hardened}:
+seam subprincipal term mark-local?}. \emph{Flat-Away round} (\vref{v289}--\vref{v297}): that residual is
+decomposed to one open analytic lemma, \emph{Flat-Away} (RP$+$gap$+$4 marks $\Rightarrow$ the curvature vanishes
+away from the marks, \vref{v289}); a red-team shows $\Z_4$-invariance is \emph{not} mark-locality (\vref{v290}),
+so Flat-Away is attacked on three independent routes --- the heat route, whose positive-definiteness is
+\emph{proved} by convexity with the exact $a_2$ kernel in closed form and Lean-formalised
+(\vref{v295}/\vref{v296}, \texttt{FORM.FLATAWAY.01}); the spectral-rigidity route (positive-definite Hessian over
+the full smooth-$\Z_4$ space, \vref{v293}); and the RP-energy/Troyanov route (\vref{v294}) --- while Route A's
+import is a citable theorem stack (\vref{v297}) modulo the \emph{same} geometric input, so both routes reduce to
+one shared external fact. The seam seed is \emph{hardened}:
 $c_3=1/(|\Z_2|\oint_{S^2}K\,dA)=1/(8\pi)$ is the one-sided Gauss--Bonnet normalisation of the seam sphere,
 with the discrete ``$8$'' equal to $\operatorname{rank}E_8$ and only the Gauss--Bonnet $\pi$ left as the
 single irreducible primitive. What remains for a full TOE is then the ambient-RP hypothesis (full QG),

diff --git a/README.md b/README.md
@@ -352,7 +352,22 @@ modes `≡ 0 mod 4`, so `[ρ,Λ]=0` on all of `L²`; lifts `v201`/`v284`), shrin
 sharper question *"why is the raw seam subprincipal term mark-local?"*. The honest positioning: **TFPT is
 structurally complete modulo one named Seam Equivalence Theorem**, plus an absolute unit (`v_geo`), a transfer
 functor (`F_transfer`) and an optional full-QG summit (`QG.AMB.01`).
-A development timeline of all `288` scripts is in `introduction.tex` (and on the website verification page).
+
+**Flat-Away round (`v289`–`v297`) — the residual reduced to one shared geometric input, with proofs.** The
+remaining question is decomposed into a 5-lemma chain whose *only* open link is **Flat-Away** — *RP + gap + the
+four marks ⇒ the curvature vanishes away from the marks* (`v289`). An honest red-team shows `ℤ₄`-invariance is
+**not** mark-locality (a smooth `ε·cos(4θ)` passes the commutator yet shifts the spectrum, `v290`), so Flat-Away
+is named as its own mini-theorem (`v291`) with **three independent routes**, each carried to a precise reduction:
+the **heat route** — the heat-trace deviation is a positive-definite quadratic form, *proved analytically* via
+convexity (`v295`), with the exact `a₂` divided-difference kernel now in **closed form**
+`W_k(t) = t(1−e^{−4kt})/(8k(1−e^{−t}))` + finite middle (`v296`) and **Lean-formalised**
+(`FORM.FLATAWAY.01`, axiom-clean); the **spectral route** — the spectral-mismatch Hessian over the full
+smooth-`ℤ₄` space is positive-definite, so flat is a strict isolated minimum (`v293`); the **variational route**
+— Troyanov uniqueness gives the flat cone metric as the unique curvature-energy minimiser (`v294`). And **Route A**'s
+import is now a citable theorem stack (Kitaev/Freed–Hopkins → Müger/Kawahigashi–Longo–Müger →
+Conway–Sloane/Dong–Xu, `v297`) modulo the **same** geometric input as Route B. So both routes reduce
+`SEAM.EQUIV.01` to one shared external fact — flat away from the marks.
+A development timeline of all `295` scripts is in `introduction.tex` (and on the website verification page).
 
 ---
 